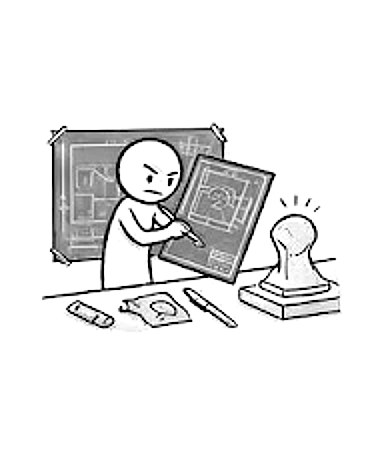
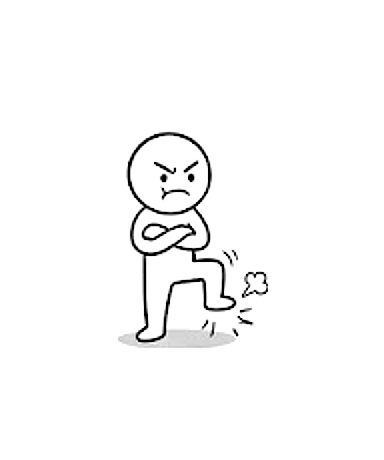
fix: resolve massive historical image swap bug. bk.png (Blije kind) now correctly shows happy child instead of angry child. wk.png (Boze kind) now shows angry child instead of blueprint guy. woc.png (Wantrouwende overcontroleerder) created to host the blueprint guy.

Changed region(s): [[0.0938, 0.2435, 0.9062, 0.7609]]

diff --git a/src/utils/colors.jsx b/src/utils/colors.jsx
@@ -22,7 +22,7 @@ export const getCardColor = (type, id, title) => {
     if (parentModes.includes(safeId) || safeTitle.includes('straffende') || safeTitle.includes('veeleisende')) return '#f87171'; // Rood
 
     // Coping modes: all yellow (#facc15 / #eab308)
-    const copingModes = ['wi', 'ob', 'oz', 'zh', 'pa', 'vst_m_bb', 'vst_m_po', 'vst_m_bm', 'vst_m_ae', 'vst_m_rd', 'mc3d'];
+    const copingModes = ['wi', 'ob', 'oz', 'zh', 'pa', 'woc', 'vst_m_bb', 'vst_m_po', 'vst_m_bm', 'vst_m_ae', 'vst_m_rd', 'mc3d'];
     if (copingModes.includes(safeId) || safeTitle.includes('inschikkelijke') || safeTitle.includes('beschermer') || safeTitle.includes('zelfsusser') || safeTitle.includes('overcontroleerder') || safeTitle.includes('zelfverheerlijker') || safeTitle.includes('pest') || safeTitle.includes('bedrog') || safeTitle.includes('erkenningzoeker') || safeTitle.includes('roofdier') || safeTitle.includes('coping')) return '#facc15'; // Geel
   } else if (safeType === 'schema') {
     const cleanId = safeId.replace('/', '_');

diff --git a/src/data/cards.jsx b/src/data/cards.jsx
@@ -94,6 +94,7 @@ export const smiModesMap = {
   'ok': 'Ongedisciplineerde kind',
   'bk': 'Blije kind',
   'wi': 'Willoze inschikkelijke',
+  'woc': 'Wantrouwende overcontroleerder',
   'ob': 'Onthechte beschermer',
   'oz': 'Onthechte zelfsusser',
   'wk': 'Boze kind',
